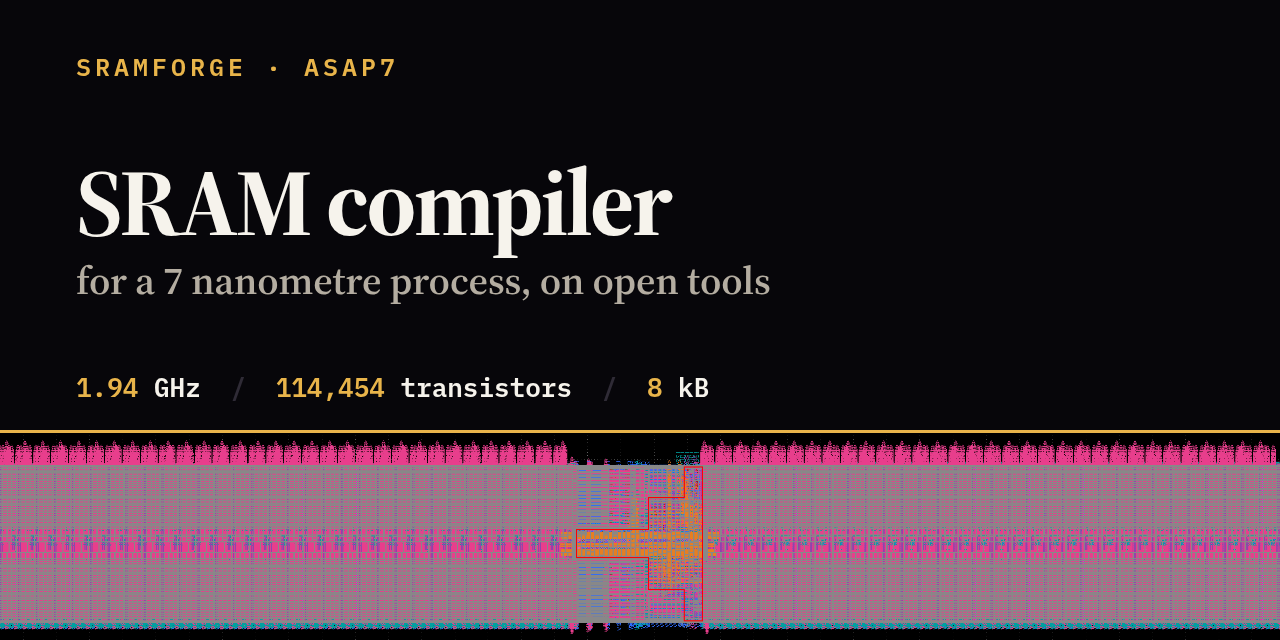
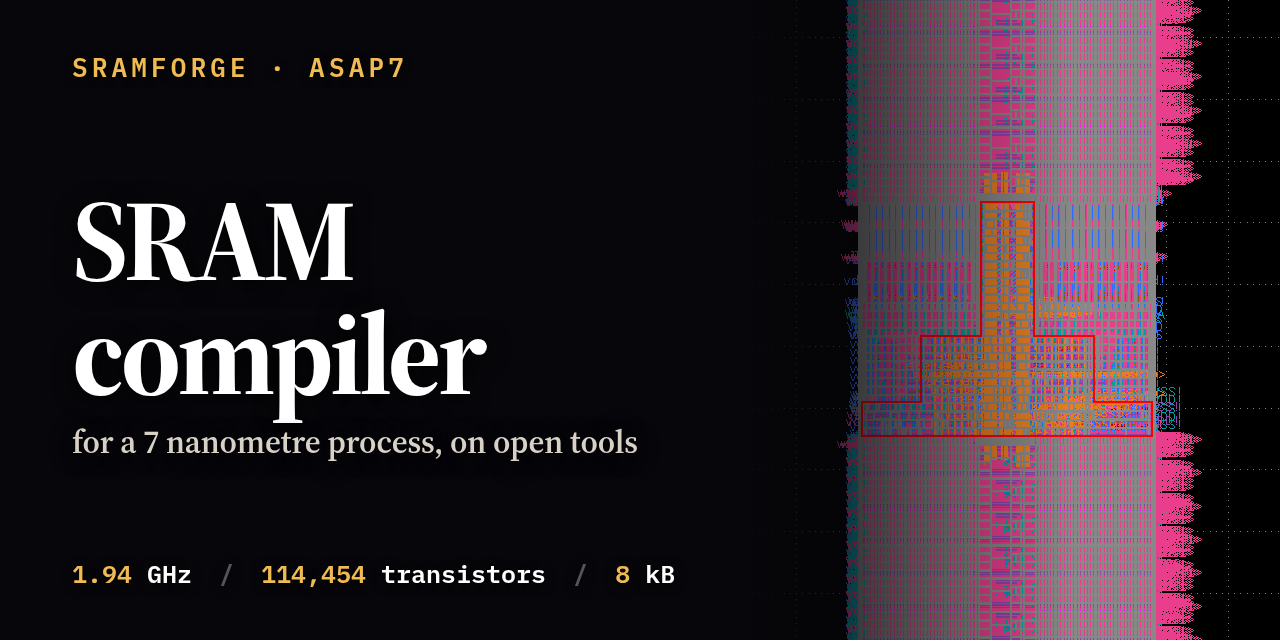
Rework the poster cut for thumbnail size
Three tries. A strip of layout under the type was too quiet; covering the whole
card and dimming it for legibility threw away the colour that made it worth
showing. This splits the card instead: solid dark for the type, the bank at
full saturation down the right. bank.png is the tall cut, so one image covers
the column with no seam and nothing is upscaled.

diff --git a/docs/banner/featured.html b/docs/banner/featured.html
@@ -1,9 +1,9 @@
 <!DOCTYPE html>
 <!-- A poster cut, 1280 by 640, for places that show the image as a small thumbnail, such
-     as a LinkedIn Featured item at roughly 200 pixels wide. Everything is sized to survive
-     that: two words of title at 96px, one line of numbers, and the bank as a band of
-     colour that still reads when it is 30 pixels tall. The top half is a flex column, so
-     the type can never overlap the band. Render it from this directory:
+     as a LinkedIn Featured item at roughly 200 pixels wide. The bank fills the whole card
+     rather than sitting in a strip, so there is colour everywhere even at that size, and
+     the type sits over a scrim heavy enough to stay legible. The bank is stacked at its
+     own scale rather than blown up, so no wire goes soft. Render it from this directory:
        chromium --headless --window-size=1280,640 --force-device-scale-factor=1 \
          --virtual-time-budget=6000 --screenshot=featured.png featured.html -->
 <html lang="en">
@@ -13,51 +13,65 @@
 <style>
   :root {
     --ink: #07060a;
-    --text: #f6f3ec;
-    --muted: #b4ada1;
-    --gold: #e8b44a;
-    --rule: #2f2b36;
+    --text: #ffffff;
+    --muted: #d8d2c6;
+    --gold: #f0bb52;
   }
   * { box-sizing: border-box; margin: 0; padding: 0; }
   html, body { width: 1280px; height: 640px; overflow: hidden; }
-  body { background: var(--ink); color: var(--text);
+  body { background: var(--ink); color: var(--text); position: relative;
          font-family: "Source Serif 4", Georgia, serif; }
 
-  .top {
-    height: 430px; padding: 54px 76px 0;
+  /* the bank at its own scale down the right side: no scrim over it, so the colour is
+     the real colour, and no upscaling, so every wire stays sharp */
+  .bg { position: absolute; right: 0; top: 0; width: 548px; height: 640px; overflow: hidden; }
+  /* bank.png is the tall cut of the same bank, so one image covers the column: no seam */
+  .bg img { position: absolute; left: -106px; top: -880px; width: 760px; height: 2400px; display: block; }
+  /* the left edge dissolves into the card instead of cutting */
+  .scrim {
+    position: absolute; right: 0; top: 0; width: 548px; height: 640px;
+    background: linear-gradient(90deg, var(--ink) 0%, rgba(7,6,10,0.55) 26%, transparent 62%);
+  }
+
+  .wrap {
+    position: absolute; inset: 0; padding: 54px 72px; width: 752px;
     display: flex; flex-direction: column; justify-content: space-between;
   }
-
   .kicker {
-    font: 600 25px/1 "IBM Plex Mono", monospace; letter-spacing: 0.16em;
+    font: 600 26px/1 "IBM Plex Mono", monospace; letter-spacing: 0.16em;
     text-transform: uppercase; color: var(--gold);
+    text-shadow: 0 2px 10px rgba(0,0,0,0.9);
   }
-
-  h1 { font-size: 96px; font-weight: 700; line-height: 1.0; letter-spacing: -0.03em; }
-  h1 small { display: block; margin-top: 10px; font-size: 40px; font-weight: 600;
-             color: var(--muted); letter-spacing: -0.005em; }
-
-  .facts { font: 600 26px/1 "IBM Plex Mono", monospace; padding-bottom: 30px; }
+  h1 {
+    font-size: 116px; font-weight: 700; line-height: 0.98; letter-spacing: -0.035em;
+    text-shadow: 0 3px 22px rgba(0,0,0,0.95);
+  }
+  h1 small {
+    display: block; margin-top: 16px; font-size: 32px; font-weight: 600;
+    color: var(--muted); letter-spacing: -0.005em;
+  }
+  .facts {
+    font: 600 25px/1 "IBM Plex Mono", monospace; white-space: nowrap;
+    text-shadow: 0 2px 12px rgba(0,0,0,0.95);
+  }
   .facts b { color: var(--gold); font-weight: 600; }
-  .facts i { color: var(--rule); font-style: normal; margin: 0 14px; }
-
-  /* the bank: a bright band at thumbnail size, the real layout at full size */
-  .band { height: 210px; overflow: hidden; position: relative; border-top: 3px solid var(--gold); }
-  .band img { position: absolute; left: 50%; transform: translateX(-50%);
-              width: 1292px; height: 207px; display: block; }
+  .facts i { color: rgba(255,255,255,0.32); font-style: normal; margin: 0 12px; }
 </style>
 </head>
 <body>
-  <div class="top">
+  <div class="bg">
+    <img src="../images/bank.png" alt="">
+  </div>
+  <div class="scrim"></div>
+
+  <div class="wrap">
     <div class="kicker">sramforge &middot; ASAP7</div>
-    <h1>SRAM compiler
+    <h1>SRAM<br>compiler
       <small>for a 7 nanometre process, on open tools</small>
     </h1>
     <div class="facts">
       <b>1.94</b> GHz <i>/</i> <b>114,454</b> transistors <i>/</i> <b>8</b> kB
     </div>
   </div>
-
-  <div class="band"><img src="../images/bank_wide.png" alt=""></div>
 </body>
 </html>
